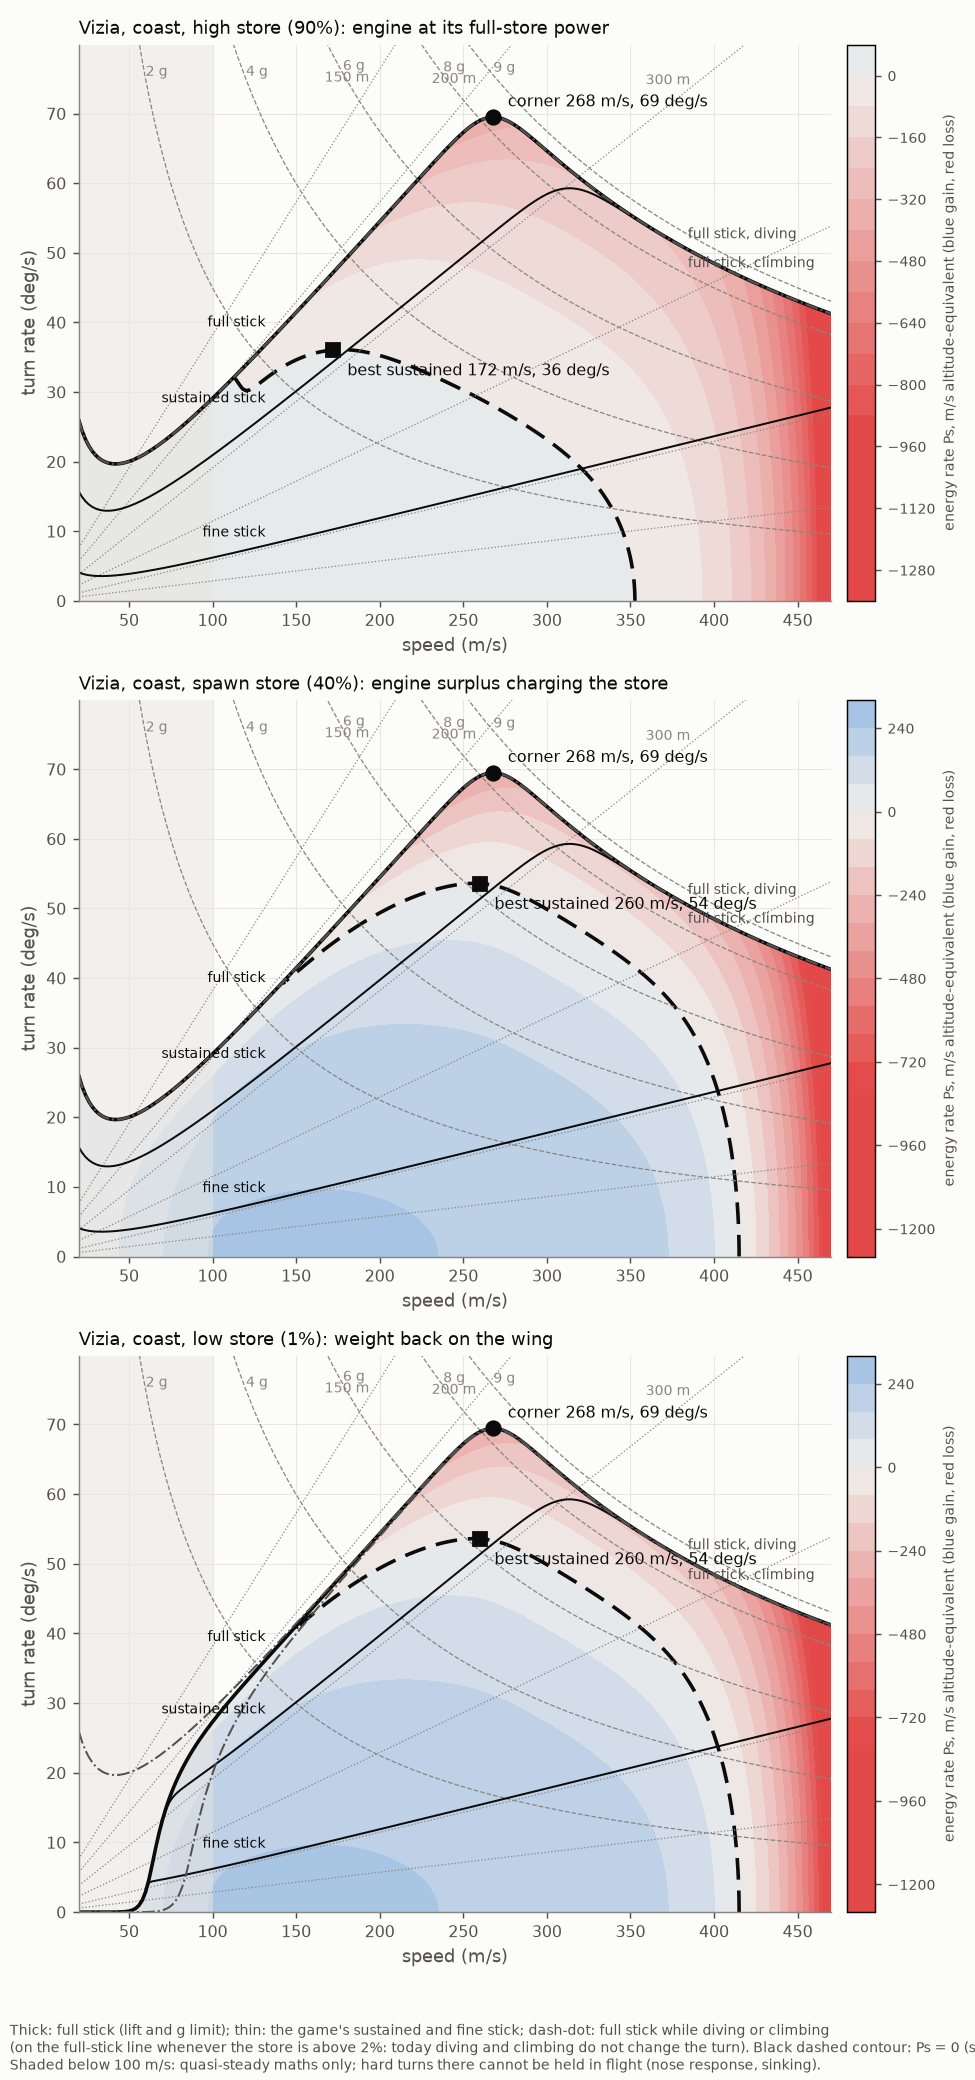
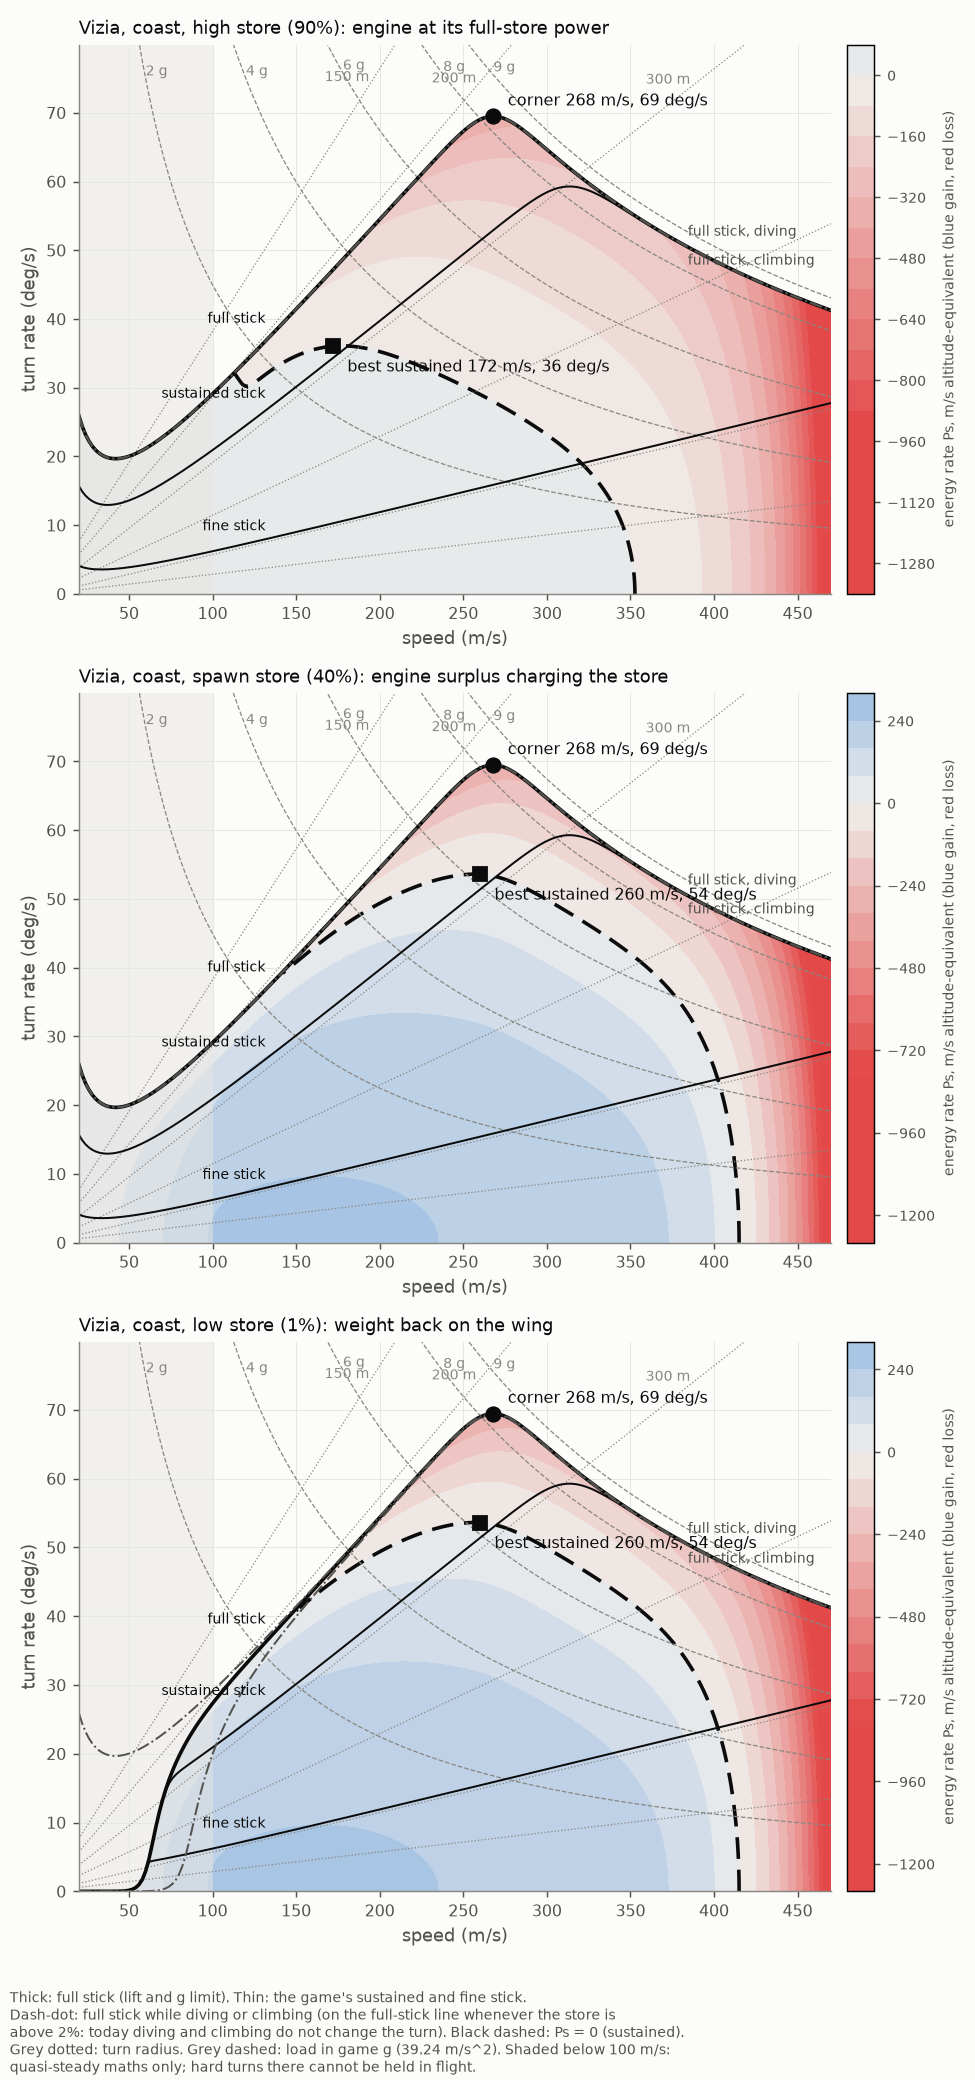
Doghouse: best-sustained marker only where flyable; wrapped footnote

diff --git a/docs/rewrite/sections/turns/doghouse.py b/docs/rewrite/sections/turns/doghouse.py
@@ -158,6 +158,7 @@ def doghouse(ship_type: int):
                     (v[corner], envelope[corner]), xytext=(8, 6), textcoords="offset points",
                     color=INK, fontsize=9)
         best, _ = sustained(grid)
+        best = np.where(v >= 100.0, best, np.nan)  # below 100 m/s the turn cannot be held in flight
         if np.any(np.isfinite(best)):
             k = int(np.nanargmax(best))
             ax.plot(v[k], best[k], "s", color=INK, markersize=8)
@@ -172,12 +173,12 @@ def doghouse(ship_type: int):
         bar = figure.colorbar(filled, ax=ax, fraction=0.04, pad=0.02)
         bar.set_label("energy rate Ps, m/s altitude-equivalent (blue gain, red loss)", color=INK_2, fontsize=8)
         bar.ax.tick_params(labelsize=8, colors=INK_2)
-    figure.text(0.01, 0.005, "Thick: full stick (lift and g limit); thin: the game's sustained and fine stick; "
-                "dash-dot: full stick while diving or climbing\n(on the full-stick line whenever the store is above 2%: today diving and climbing do not change the turn). Black dashed contour: Ps = 0 (sustained). "
-                "Grey dotted: turn radius. Grey dashed: load in game g (39.24 m/s^2).\n"
-                "Shaded below 100 m/s: quasi-steady maths only; hard turns there cannot be held in flight "
-                "(nose response, sinking).", color=INK_2, fontsize=8)
-    figure.tight_layout(rect=(0, 0.045, 1, 1))
+    figure.text(0.01, 0.004, "Thick: full stick (lift and g limit). Thin: the game's sustained and fine stick.\n"
+                "Dash-dot: full stick while diving or climbing (on the full-stick line whenever the store is\n"
+                "above 2%: today diving and climbing do not change the turn). Black dashed: Ps = 0 (sustained).\n"
+                "Grey dotted: turn radius. Grey dashed: load in game g (39.24 m/s^2). Shaded below 100 m/s:\n"
+                "quasi-steady maths only; hard turns there cannot be held in flight.", color=INK_2, fontsize=8)
+    figure.tight_layout(rect=(0, 0.055, 1, 1))
     path = os.path.join(OUT, f"doghouse-{NAMES[ship_type].lower()}.png")
     figure.savefig(path, dpi=130, facecolor=SURFACE)
     plt.close(figure)
